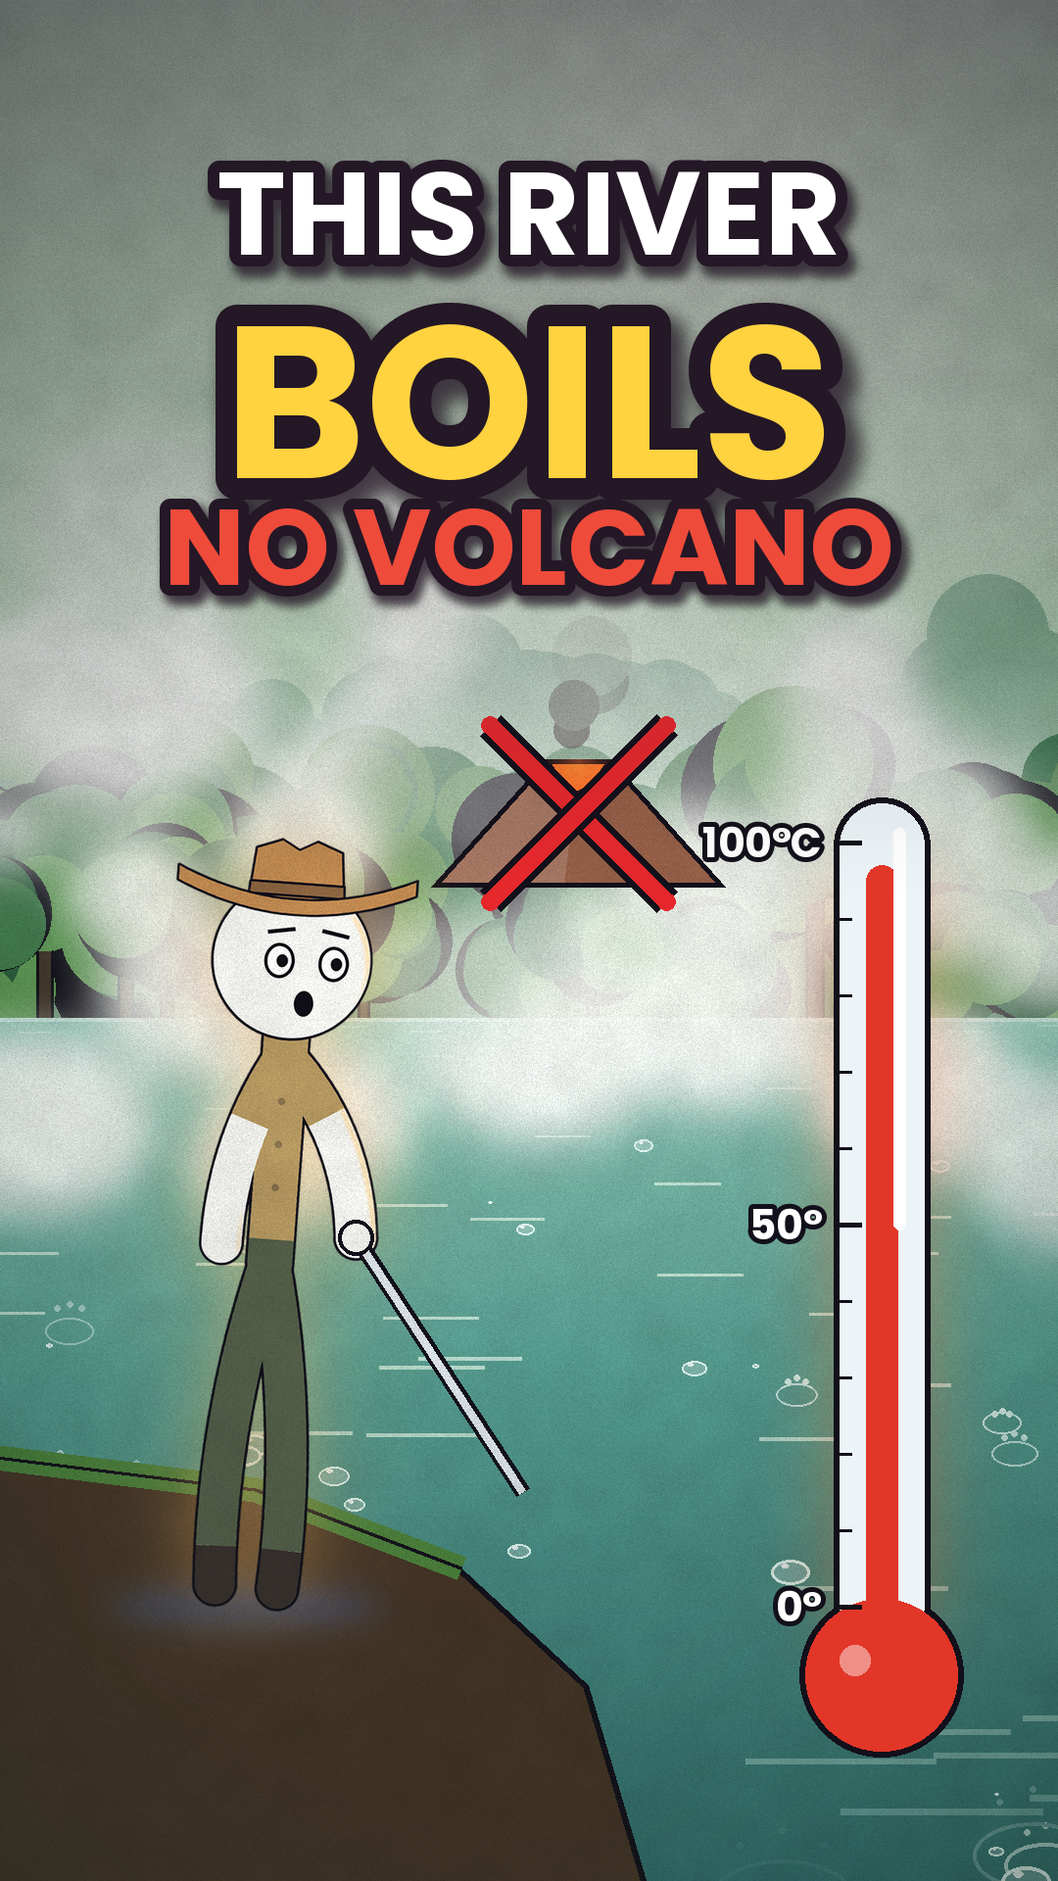
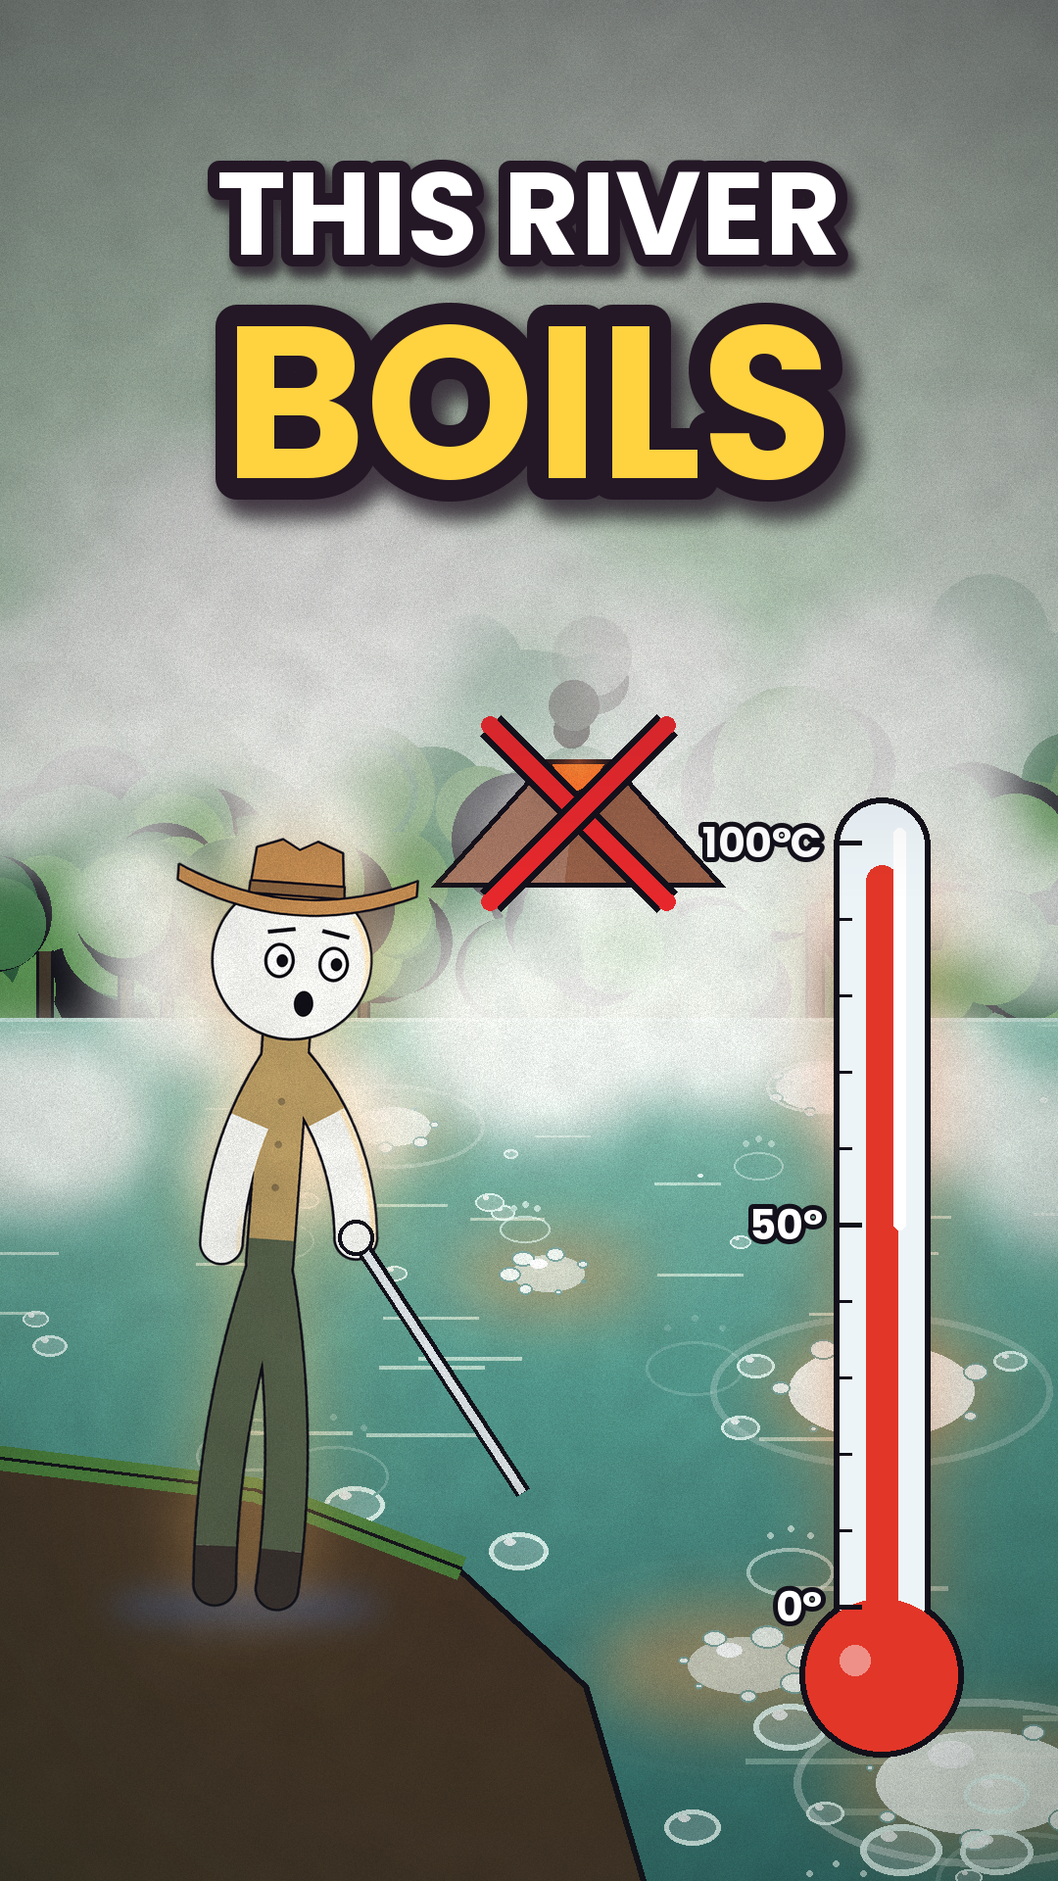
boiling-river v2: Director's fixes (s01 boil, s08/s13 labels off captions, s15 hot ribbon, thumbnail)
Claude-Session: https://claude.ai/code/session_01CUE841vLY8mQiiU3ahv9kX

diff --git a/flat2d/boiling_river.py b/flat2d/boiling_river.py
@@ -120,6 +120,14 @@ def frog_state(u, cue):
     return x, y, ang, splay, look
 
 
+S01_WATER = ((176, 196, 170), (120, 150, 130), (96, 70, 56))          # boiling water: pale, cloudy, heat-darkened below
+S01_HEAT = [(160, 1300, 220), (760, 1220, 200), (480, 1520, 260), (930, 1600, 230), (260, 1800, 280), (760, 1860, 300),
+            (560, 1060, 160), (240, 1110, 190), (880, 1110, 170)]
+S01_BOIL = [(180, 1330, 95), (800, 1250, 85), (470, 1510, 130), (930, 1570, 120), (300, 1770, 160), (760, 1830, 165),
+            (640, 1120, 65), (120, 1110, 60), (380, 1200, 70), (990, 1380, 90), (60, 1560, 110), (560, 1700, 120),
+            (980, 1920, 150), (420, 1060, 50), (870, 1080, 55)]
+
+
 def s01_world(u, cam=0.0, frog=None, steam_k=1.0, geo=None, walls_y1=1300):
     """The opening framing (also the loop's last frame). Moves: steam rolls, bubbles pop, flow streaks, fronds
     and vines sway, rays drift."""
@@ -128,13 +136,23 @@ def s01_world(u, cam=0.0, frog=None, steam_k=1.0, geo=None, walls_y1=1300):
     # far bank: dense trees down to the water
     fb = J.canopy_layer(21, 900, [(26, 60, 110, ((48, 100, 66), (70, 128, 80), (100, 160, 90)), True, (70, 56, 44), 0)])
     img.alpha_composite(fb, (int(-200 + cam * .6), 0))
-    poly = J.river_band(img, u, 900, 1960, x_far=(-100, 1180), x_near=(-400, W + 400), cam=cam, heat=1.0)
-    radial(img, 560 + cam * .5, 960, 620, (255, 170, 90), .28 + .05 * math.sin(u * 2.3))      # heat glow on the water
-    J.boil(img, u, [(180 + cam, 1330, 70), (800 + cam, 1250, 60), (470 + cam, 1500, 95), (930 + cam, 1560, 90),
-                    (300 + cam, 1760, 120), (760 + cam, 1820, 120), (640 + cam, 1130, 45), (120 + cam, 1110, 40)], seed=12)
-    J.bubbles(img, u, poly, n=90, seed=3, rate=1.7, size=(14, 80))
-    J.steam(img, u, [(-60, 520, 930), (480, 1140, 940), (-60, 1140, 1000), (-60, 1140, 1150), (0, 1080, 1400)], rise=820,
-            dens=1.3 * steam_k, seed=7, n=90, size=(70, 190), wind=50, warm=.12)
+    poly = J.river_band(img, u, 900, 1960, x_far=(-100, 1180), x_near=(-400, W + 400), cam=cam, heat=1.0, cols=S01_WATER)
+    pm = mask(); ImageDraw.Draw(pm).polygon(poly, fill=255)
+    # the heat under the water: big orange-red pools pulse up from below (clipped to the river), plus a warm wash
+    hm = mask(); dh = ImageDraw.Draw(hm)
+    for i, (hx, hy, hr) in enumerate(S01_HEAT):
+        k = .75 + .25 * math.sin(u * (1.7 + .23 * i) + i * 1.9)
+        dh.ellipse([hx + cam - hr * k * 1.5, hy - hr * k * .55, hx + cam + hr * k * 1.5, hy + hr * k * .55], fill=int(255 * k))
+    hm = hm.filter(ImageFilter.GaussianBlur(70))
+    hm = Image.fromarray((np.asarray(hm, np.float32) * np.asarray(pm, np.float32) / 255).astype(np.uint8))
+    fill_mask(img, hm, (240, 70, 26), .8)
+    glow(img, hm, (255, 190, 90), .55, blur=20, add=True)
+    radial(img, 560 + cam * .5, 1250, 900, (255, 110, 40), .42 + .08 * math.sin(u * 2.3), box=pm)   # the whole river glows hot
+    radial(img, 560 + cam * .5, 900, 700, (255, 150, 80), .22 + .04 * math.sin(u * 1.7))             # heat haze over the far bank
+    J.boil(img, u, [(f[0] + cam, f[1], f[2]) for f in S01_BOIL], seed=12, heat=(255, 96, 36), heat_a=.8)
+    J.bubbles(img, u, poly, n=170, seed=3, rate=2.0, size=(18, 104), col=(255, 246, 232))
+    J.steam(img, u, [(-60, 520, 930), (480, 1140, 940), (-60, 1140, 1000), (-60, 1140, 1150), (0, 1080, 1400)],
+            rise=1000, dens=1.25 * steam_k, seed=7, n=110, size=(70, 200), wind=50, warm=.3, alpha=.72)
     # near bank, bottom left, with ferns
     d = ImageDraw.Draw(img); c = cam * 1.2
     J.ground_bank(img, [(-60 + c, 1560), (120 + c, 1600), (300 + c, 1700), (420 + c, 1820), (470 + c, 1990), (-60 + c, 1990)])
@@ -667,8 +685,8 @@ def s08(u, D, cue):
     img = finish(img, u, 1.03 + .03 * smooth(u / D), 540, 1000, vig=(.3, (20, 40, 50)))
     clue(img, 'CLUE 3', u)
     if not HIDE_UI:
-        stitle(img, 's08_t', [('NO SIGN OF', 'white', 84), ('A VOLCANO', (255, 120, 60), 100)], 1290, u, tn + .1)
-    return img, {'faces': [face_box(g, 1.25)], 'avoid': [(0, 150, W, 360), (sx0 - 30, sy0 - 30, sx1 + 30, sy1 + 30), (0, 1260, W, 1520)]}
+        stitle(img, 's08_t', [('NO SIGN OF', 'white', 84), ('A VOLCANO', (255, 120, 60), 100)], 1650, u, tn + .1)
+    return img, {'faces': [face_box(g, 1.25)], 'avoid': [(0, 150, W, 360), (sx0 - 30, sy0 - 30, sx1 + 30, sy1 + 30), (0, 1560, W, 1920)]}
 
 
 # ---------------------------------------------------------------- s09: so how? (line 9) - dusk
@@ -865,9 +883,14 @@ def s13(u, D, cue):
     if not HIDE_UI:
         chip(img, 'LIKE A COFFEE MACHINE', (110, 70, 40), 540, 180, u, cue(2) - .1, size=50)
         chip(img, 'COLD IN', (40, 120, 200), 760, 600, u, cue(4) - .1, size=46)
-        chip(img, 'SOMETHING HOT', (200, 70, 30), 360, 1300, u, cue(10) - .1, size=44)
+        kh = smooth(seg(u, cue(10) - .1, cue(10) + .2))
+        if kh > 0:
+            hx, hy = P['heater']; dl = ImageDraw.Draw(img)
+            for wdt, col in ((14, INK), (7, (255, 150, 80))):
+                dl.line([(330, 1740), (330, 1740 + (hy + 40 - 1740) * kh)], fill=col, width=wdt)
+        chip(img, 'SOMETHING HOT', (200, 70, 30), 330, 1780, u, cue(10) - .1, size=44)
         chip(img, 'STEAMING', (220, 90, 50), 880, 1230, u, cue(15) - .1, size=46)
-    return img, {'faces': [], 'avoid': [(100, 120, 980, 240), (560, 540, 960, 660), (120, 1240, 600, 1360), (700, 1170, 1060, 1290)]}
+    return img, {'faces': [], 'avoid': [(100, 120, 980, 240), (560, 540, 960, 660), (0, 1140, W, 1500), (60, 1700, 620, 1860)]}
 
 
 # ---------------------------------------------------------------- s14: the hot plate is the planet (line 14)
@@ -919,13 +942,16 @@ def s15(u, D, cue):
         img.alpha_composite(b, (int(-200 + cam * (.3 + .3 * k)), 0))
     pts = _smooth_path(RIV15, 10)
     wf = lambda yy: 18 + 420 * max(0, (yy - 740) / 1260) ** 1.2
-    cf = lambda yy: lerp((255, 214, 140), (110, 200, 190), max(0, (yy - 740) / 1260))
+    cf = lambda yy: lerp((255, 176, 70), (236, 76, 36), max(0, (yy - 740) / 1260))
     m = mask(); ImageDraw.Draw(m).line([(x + cam * .5, y_) for x, y_ in pts], fill=255, width=120)
-    glow(img, m, (255, 190, 110), .85, blur=40)
+    glow(img, m, (255, 110, 40), .9, blur=46)
     river_path_draw(img, [(x + cam * .5, y_) for x, y_ in pts], wf, cf, 0, u)
-    radial(img, 520, 1300, 500, HOT, .25)
-    J.steam(img, u, [(x + cam * .5 - wf(y_) / 2, x + cam * .5 + wf(y_) / 2, y_) for x, y_ in pts[::4]], rise=420,
-            dens=.9, seed=47, n=70, size=(30, 130), wind=30, warm=.4, col=(255, 244, 236), alpha=.75)
+    mg = mask(); ImageDraw.Draw(mg).line([(x + cam * .5, y_) for x, y_ in pts], fill=255, width=40)
+    glow(img, mg, (255, 210, 120), .5 + .1 * math.sin(u * 2.6), blur=14, add=True)                       # hot core of the ribbon
+    radial(img, 520, 1300, 600, (255, 90, 40), .32 + .05 * math.sin(u * 2))
+    J.steam(img, u, [(x + cam * .5 - wf(y_) / 2, x + cam * .5 + wf(y_) / 2, y_) for x, y_ in pts[::3]], rise=520,
+            dens=1.1, seed=47, n=90, size=(24, 110), rate=.3, wind=30, warm=.3, col=(255, 246, 240), alpha=.6)
+    J.wisps(img, u, (300, 760, 760, 1500), n=18, a=150)
     J.side_walls(img, u, cam, seed=15, left=True, right=True, y0=1500, y1=2000, scale=1.2)
     img = finish(img, u, 1.02 + .05 * smooth(u / D), 540, 1000, vig=(.36, (60, 30, 20)))
     stitle(img, 's15_t', [('BIGGEST KNOWN', 'white', 104)], 150, u, cue(2) - .1)

diff --git a/flat2d/jungle.py b/flat2d/jungle.py
@@ -615,7 +615,7 @@ def globe(img, cx, cy, r, t, cut=1.0, spin=0.0, glow_a=.55, land=(80, 160, 90), 
     img.alpha_composite(lay)
 
 
-def boil(img, t, spots, seed=12, col=(250, 255, 252), heat=(255, 150, 80)):
+def boil(img, t, spots, seed=12, col=(250, 255, 252), heat=(255, 150, 80), heat_a=.45):
     """Rolling boil: churning white domes on the surface (each swells, breaks into foam and a ring, then
     re-forms), with an orange heat glow under each. spots: [(x, y, r)]. Moves: every dome on its own phase."""
     lay = layer(); d = ImageDraw.Draw(lay); m = mask(); dm = ImageDraw.Draw(m); rng = np.random.default_rng(seed)
@@ -632,5 +632,5 @@ def boil(img, t, spots, seed=12, col=(250, 255, 252), heat=(255, 150, 80)):
         v = (u * 2) % 1; R = r * (1 + v * 1.3)                              # a spreading ring
         d.ellipse([x - R, y - R * .45, x + R, y + R * .45], outline=col + (int(200 * (1 - v)),), width=max(2, int(r * .08)))
         d.ellipse([x - rr * .5, y - rr * .4, x - rr * .05, y - rr * .15], fill=(255, 255, 255, 255))
-    glow(img, m, heat, .45, blur=30)
+    glow(img, m, heat, heat_a, blur=30)
     img.alpha_composite(lay)

diff --git a/videos/boiling-river/NOTES.md b/videos/boiling-river/NOTES.md
@@ -1,6 +1,6 @@
 # The Boiling River: "The River That Boils With No Volcano" (flat2d, claude/area-boiling-river, 2026-11-23)
 
-Video 6. Same look, tone and pipeline as videos 3-5: white stickmen with a black outline, rich flat 2D, serious mystery, no comedy, "sentence" captions, continuous motion. Voice: Kokoro `am_adam` (the Producer's `audio/boiling-river/`, unchanged). Status: **540 preview + thumbnail rendered for the Producer's pass. No 1080 final, nothing published.**
+Video 6. Same look, tone and pipeline as videos 3-5: white stickmen with a black outline, rich flat 2D, serious mystery, no comedy, "sentence" captions, continuous motion. Voice: Kokoro `am_adam` (the Producer's `audio/boiling-river/`, unchanged). Status: **v2 (the Director's fixes) rendered at 1080: final cut below. Nothing published.**
 
 ## Files
 | file | what |
@@ -8,7 +8,7 @@ Video 6. Same look, tone and pipeline as videos 3-5: white stickmen with a black
 | `tests/preview_full_540.mp4` | 540x960 full-length preview with `audio/boiling-river/mix.wav` (no cover), 1946 frames = 64.87 s |
 | `tests/sheet_2s.jpg` | 2 s contact sheet of the preview |
 | `tests/stills_r1/` … `tests/stills_r6/` | the review stills per round (one per shot, 540x960, captions on) and `sheet.png` |
-| `thumbnail.png` | house-style thumbnail: caption-free frame (`flat2d/boiling_river_thumb.py`, `HIDE_UI`): the GEOLOGIST with his probe in the steaming river, a thermometer at ~100°C, a small volcano far away on the horizon crossed out; headline THIS RIVER / BOILS / NO VOLCANO |
+| `thumbnail.png` | house-style thumbnail: caption-free frame (`flat2d/boiling_river_thumb.py`, `HIDE_UI`): the GEOLOGIST with his probe in the steaming river, a thermometer at ~100°C, a small volcano far away on the horizon crossed out; headline THIS RIVER / BOILS (v2: the NO VOLCANO line dropped) |
 | `flat2d/boiling_river.py` | the shots `s01`-`s16` (s03 split into s03a/s03b), `SHOT_LIST`, `END`, `BAND_AT`, `STILL_AT`, `HIDE_UI` |
 | `flat2d/jungle.py` | new kit layers: rainforest back (sky, far ridge, cached canopy bands, haze, god rays), palm fronds, broad leaves, vines, side foliage walls, banks; the perspective river band; rolling `boil` domes and `bubbles`; thick `steam` (quarter-res mask, puffs drawn brightest-last so overlaps never flicker) and `wisps`; the tree frog (sitting / splayed); a big thermometer; the Peru map + pins; volcano icon (solid or imagined ghost); earth section with depth-heat bands (`dark` variant), faults, travelling hot-water blobs (`rising`), arrows; rain + storm cloud; cutaway coffee machine + mug; cutaway globe |
 | `flat2d/boiling_river_thumb.py` | the thumbnail frame |
@@ -20,14 +20,14 @@ Video 6. Same look, tone and pipeline as videos 3-5: white stickmen with a black
 .venv/bin/python flat2d/motion_qa.py OUT.mp4.frames <cuts> --impacts <designed beats>                           # see Motion QA
 ffmpeg -i OUT.mp4 -i audio/boiling-river/mix.wav -map 0:v -map 1:a -c:v copy -c:a aac -b:a 192k -shortest videos/boiling-river/tests/preview_full_540.mp4
 .venv/bin/python flat2d/boiling_river_thumb.py frame.png
-.venv/bin/python tools/thumbnail.py frame.png videos/boiling-river/thumbnail.png --line "THIS RIVER|white|120" --line "BOILS|yellow|220" --line "NO VOLCANO|red|110"
+.venv/bin/python tools/thumbnail.py frame.png videos/boiling-river/thumbnail.png --line "THIS RIVER|white|120" --line "BOILS|yellow|220"
 ```
 Shot ids follow the Producer's `scripts/boiling-river/shots.json` one per line; the only split is s03 → s03a/s03b inside line 3, so the mix and the `sfx.json` anchors did not need rebuilding. Final (after the Producer's pass): `render.py ... --size 1080x1920`, mux `mix.wav`, `tools/add_cover.sh <video> videos/boiling-river/thumbnail.png <master>`. 1946 frames = 64.87 s; with the 0.1 s cover ≈ 64.97 s (62-66 s rule).
 
 ## Shot list (timed to the real voice; a shot starts 0.1 s before its first word)
 | shot | time s | line | picture |
 |---|---|---|---|
-| s01 | 0.00-4.44 | 1 | **frame 0 = the hook:** a jungle river boiling (rolling white domes, bubbles, thick steam, orange heat glow), a green tree frog on a mossy root over the water, THIS RIVER / BOILS already on screen at frame 0 (punch + shake on "river"). The frog slips on "animals", scrabbles, lets go after "cooked" and falls; **the shot cuts at 4.44 s while it is still in the air above the steam (no contact)** |
+| s01 | 0.00-4.44 | 1 | **frame 0 = the hook:** a jungle river boiling (v2: cloudy heat-darkened water with pulsing orange-red heat pools under it, 15 big rolling domes, ~170 swelling/bursting bubbles, thicker steam), a green tree frog on a mossy root over the water, THIS RIVER / BOILS already on screen at frame 0 (punch + shake on "river"). The frog slips on "animals", scrabbles, lets go after "cooked" and falls; **the shot cuts at 4.44 s while it is still in the air above the steam (no contact)** |
 | s02 | 4.44-6.52 | 2 | a study (bookshelves, old AMAZON chart, drawers, papers): the SCIENTIST shakes his head, reaches and shuts an open book with a steaming-river sketch; LEGEND stamps on the cover on "legend"; FOR YEARS |
 | s03a | 6.52-9.94 | 3 (0-9) | jungle trail, light shafts, the steaming river glimpsed ahead; the GEOLOGIST (wide-brim hat, khaki shirt) walks in (foot-locked walk), stops; 2011 slams; ANDRÉS RUZO chip on "Andrés" |
 | s03b | 9.94-13.45 | 3 (10-18) | on the bank: he dips a probe into the boiling water on "dipped" (ripple rings); a big thermometer climbs from "thermometer" to just under 100°C on "hundred" (impact + shake); NEARLY 100°C; he startles |
@@ -35,14 +35,14 @@ Shot ids follow the Producer's `scripts/boiling-river/shots.json` one per line; 
 | s05 | 15.96-19.74 | 5 | stylised Peru map: BOILING RIVER pin with the ghost volcano beside it; NEAREST ACTIVE VOLCANO pops far south on "volcano"; a dashed ruler draws on "seven hundred", ≈ 700 KM; on "away." the ghost breaks (shards) and a red X lands on it |
 | s06 | 19.74-24.91 | 6 | CLUE 1. Top-down canopy, the river from a thin blue stream (top) to a wide orange, steaming river (bottom); COLD STREAM on "cold", HOT on "hot"; the camera starts close on the source and pulls back down the river on "farther down" |
 | s07 | 24.91-29.54 | 7 | CLUE 2. Section: the river channel (cold blue left → hot right), jagged faults open and glow on "cracks", hot water blobs rise along them into the river, which bubbles and steams; CRACKS, FAULTS (shake on "faults") |
-| s08 | 29.54-33.14 | 8 | CLUE 3. Lab: the SCIENTIST holds up a glowing tube of river water; the RIVER WATER TEST screen scans VOLCANIC GASES / MAGMA MINERALS → NONE; a red X over the volcano icon on "no"; NO SIGN OF / A VOLCANO |
+| s08 | 29.54-33.14 | 8 | CLUE 3. Lab: the SCIENTIST holds up a glowing tube of river water; the RIVER WATER TEST screen scans VOLCANIC GASES / MAGMA MINERALS → NONE; a red X over the volcano icon on "no"; NO SIGN OF / A VOLCANO (v2: at the bottom, y 1650, below the caption band) |
 | s09 | 33.14-36.12 | 9 | dusk: purple-orange sky, the sun's broken reflection, the river boiling pink; a big ? rises out of the steam on "how"; the GEOLOGIST thinking on the bank |
 | s10 | 36.12-41.14 | 10 | space, a slowly turning cutaway globe (crust, mantle, glowing core); THE EARTH IS / THE STOVE on "is the stove"; an arrow dives from the crust toward the core, cooling blue → hot red, on "deeper … hotter"; DEEPER = HOTTER; VOLCANO OR NOT |
 | s11 | 41.14-45.59 | 11 | rain from a storm cloud on mountains (left), the steaming river (right); below, a water path sinks from the mountain foot kilometres deep (KM ruler), blue turning red; RAIN, KILOMETRES DEEP, THE ROCK HEATS IT; a dashed hint rises toward the river |
 | s12 | 45.59-49.01 | 12 | close section: a wide glowing crack from the deep up to the river bed, hot water racing up it, PRESSURE arrows pulsing upward, BACK UP; on "river." the river bursts into a boil (flash, shake, steam surge) |
-| s13 | 49.01-53.85 | 13 | kitchen: a cutaway coffee machine; cold blue water runs from the tank on "cold water goes in", the hot plate glows on "runs past something hot", hot water rises and drips into the carafe; the mug steams on "steaming"; LIKE A COFFEE MACHINE, COLD IN, SOMETHING HOT, STEAMING |
+| s13 | 49.01-53.85 | 13 | kitchen: a cutaway coffee machine; cold blue water runs from the tank on "cold water goes in", the hot plate glows on "runs past something hot", hot water rises and drips into the carafe; the mug steams on "steaming"; LIKE A COFFEE MACHINE, COLD IN, SOMETHING HOT (v2: below the machine with a leader line up to the hot plate, clear of the caption), STEAMING |
 | s14 | 53.85-55.69 | 14 | the camera dives into the glowing hot plate, a warm flash, and it becomes a cutaway Earth with a glowing core; the hot-plate inset (top left) → arrow → the river pinned on the crust; THE HOT PLATE, = THE PLANET |
-| s15 | 55.69-59.08 | 15 | golden-hour aerial: canopy rows to the hazy horizon, the river ribbon glowing and steaming through it; BIGGEST KNOWN, HOT RIVER · NO VOLCANO |
+| s15 | 55.69-59.08 | 15 | golden-hour aerial: canopy rows to the hazy horizon, the river ribbon glowing and steaming through it (v2: orange → red ribbon with a hot core glow, denser steam and wisps along it); BIGGEST KNOWN, HOT RIVER · NO VOLCANO |
 | s16 | 59.08-64.87 | 16 | the opening world: the GEOLOGIST on a near bank (right), the frog back on its root; a red heat glow pulses up from under the jungle on "deep under the jungle"; after "cooking." a steam surge fills the frame and clears into **the s01 composition (world clock meets s01's frame 0), THIS RIVER BOILS fading in: the loop**. No caption during the surge (`seam`) |
 
 Hooks (SCRIPT.md map): 0 s boiling river + THIS RIVER BOILS + the frog; 3.1 s the frog slips; 6.1 s LEGEND; 7.2 s 2011; 12.6 s NEARLY 100°C; 14.9 s the ghost volcano; 18.1 s ≈ 700 KM, 19.4 s X; 19.8 s CLUE 1; 25 s CLUE 2; 29.6 s CLUE 3; 33.4 s the ?; 37.4 s THE STOVE; 46 s PRESSURE, 48.7 s the burst; 49.5 s coffee machine; 55.3 s = THE PLANET; 56.3 s BIGGEST KNOWN; 63.7 s the surge into the loop.
@@ -59,6 +59,14 @@ Hooks (SCRIPT.md map): 0 s boiling river + THIS RIVER BOILS + the frog; 3.1 s th
 
 Fixes per round: R1 → s06 whole river in one frame (blue → orange), bigger geologist in s03a/s09, s14 inset of the hot plate (no longer a repeat of s10), s04 ghost volcano filled, labels moved off overlaps (s08, s11, s12, s13), s02 desk detail, s16 geologist off the root, s07 extra faults. R2 → rolling-boil domes in the river shots, jagged faults, s05 ghost beside the pin and crossed on its own, decluttered s06/s11/s12, golden s15, s03a trail + light shafts. R3 → s04 dark rock (breaks the green run), s05 ghost stays visible under the X, s09 reflection + boil, globe clouds/atmosphere, s11 wider river, s03a steam ahead. R4 → s03a river glimpse + bigger geologist, s04 volcano silhouette + glowing pipe, s11 path under the river, s15 ribbon glow. R5 → s04 title off the volcano, thermometer to the line, label placements.
 **Plateau rule (LESSONS: 3 rounds without improvement) reached at R4-R6 (overall 8.2 / 8.0 / 7.9; composition 7.9 / 7.9 / 7.6, just under the 8 gate). Stopped iterating on the Producer's tight-usage brief; no script contradiction and no 3+ run in any of the last four rounds.** Open notes from R6 (not done): s11 "far away" (mountains and river share one ground line), s13 label crowding, s08 caption under the title, s05 small map labels near the pin, s15 ribbon still pale, s14 inset tilted/cropped.
+
+## v2: the Director's fixes (2026-11-23)
+1. s01 (the hook): the water read as a calm teal pond. Now unmistakably boiling: cloudy, heat-darkened water (`S01_WATER`), orange-red heat pools pulsing up under it (`S01_HEAT`, clipped to the river) plus a hot glow over the whole river, 15 bigger rolling domes with a strong red-orange glow (`S01_BOIL`, `J.boil(heat_a=)`), ~170 bigger bursting bubbles, thicker warmer steam. Frog, THIS RIVER BOILS at frame 0 and the cut before contact unchanged. s16 still ends in `s01_world` at w = 0, so the loop frame matches s01 frame 0 (checked side by side).
+2. s08: NO SIGN OF / A VOLCANO moved to the bottom (y 1650, over the bench); its avoid box keeps the caption above it (caption ~1330, clear of the screen and the title).
+3. s13: SOMETHING HOT moved below the machine (y 1780) with a leader line up to the hot plate; the machine's lower half is an avoid box, so the caption sits on the counter between them.
+4. s15: the river ribbon is orange (far) → red (near) with a red outer glow and a hot core, steam rises along it every 3rd path point plus wisps through the canopy.
+5. Thumbnail: the NO VOLCANO line removed (THIS RIVER / BOILS; the crossed-out volcano picture kept).
+Checked on 540 stills of s01, s08, s13, s15 (and the loop frame): no title or label under a caption. No reviewer round (tight usage).
 
 ## Motion QA (`flat2d/motion_qa.py`)
 On the 1946 rendered preview frames: `motion_qa.py FRAMES 4.442 6.521 9.94 13.448 15.955 19.743 24.907 29.535 33.137 36.116 41.135 45.589 49.009 53.851 55.686 59.082 --impacts 1.53 19.32 28.55 36.96 37.12 48.51` → **PASS** (longest frozen span 1 frame; median diff 2.46; no pops).
